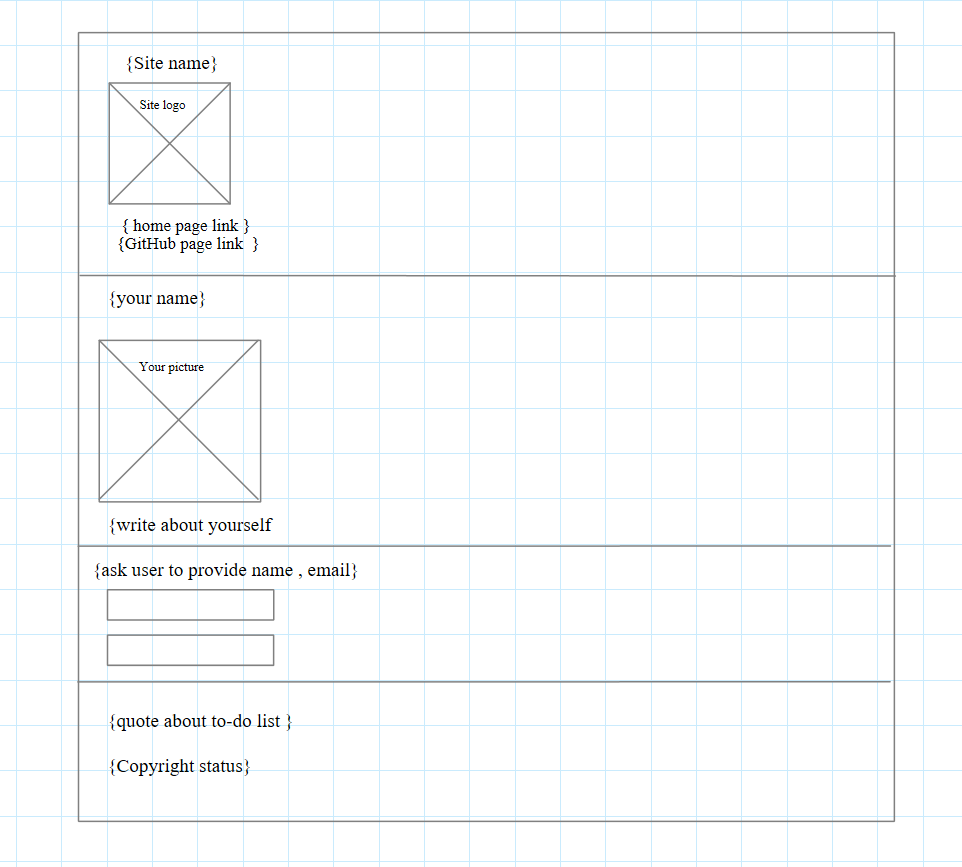
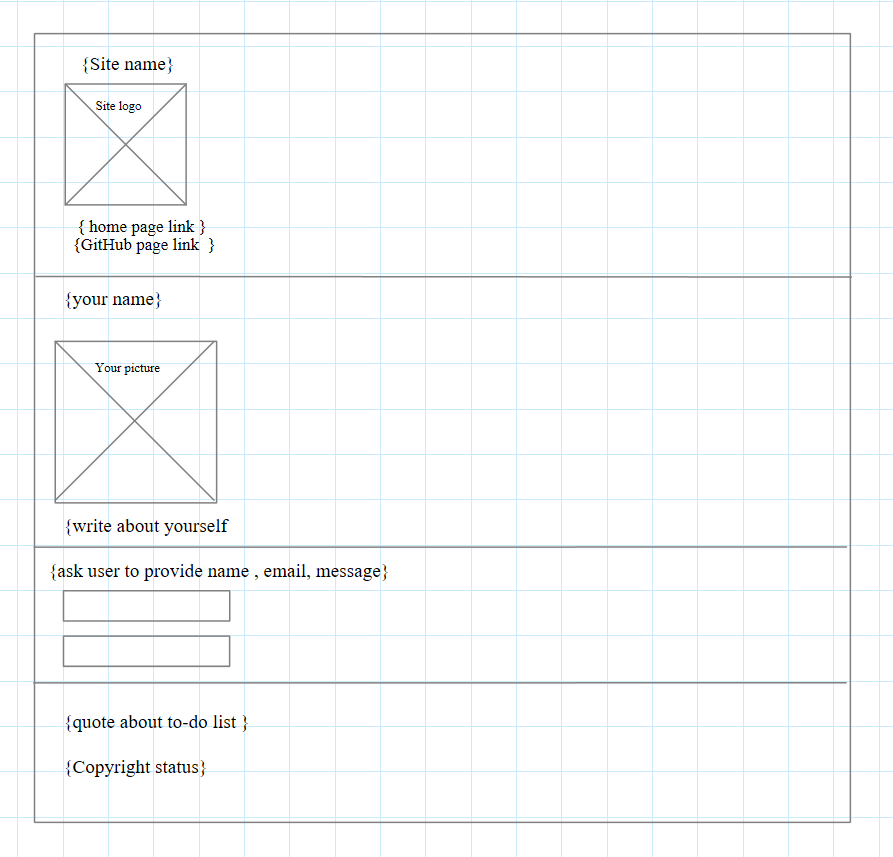
some fixes

diff --git a/about.html b/about.html
@@ -43,6 +43,10 @@
           email : <input type="text" />
           <br />
           <br />
+          message : <input type="text" />
+          <br />
+          <br />
+
           <input type="submit" />
         </form>
       </section>
